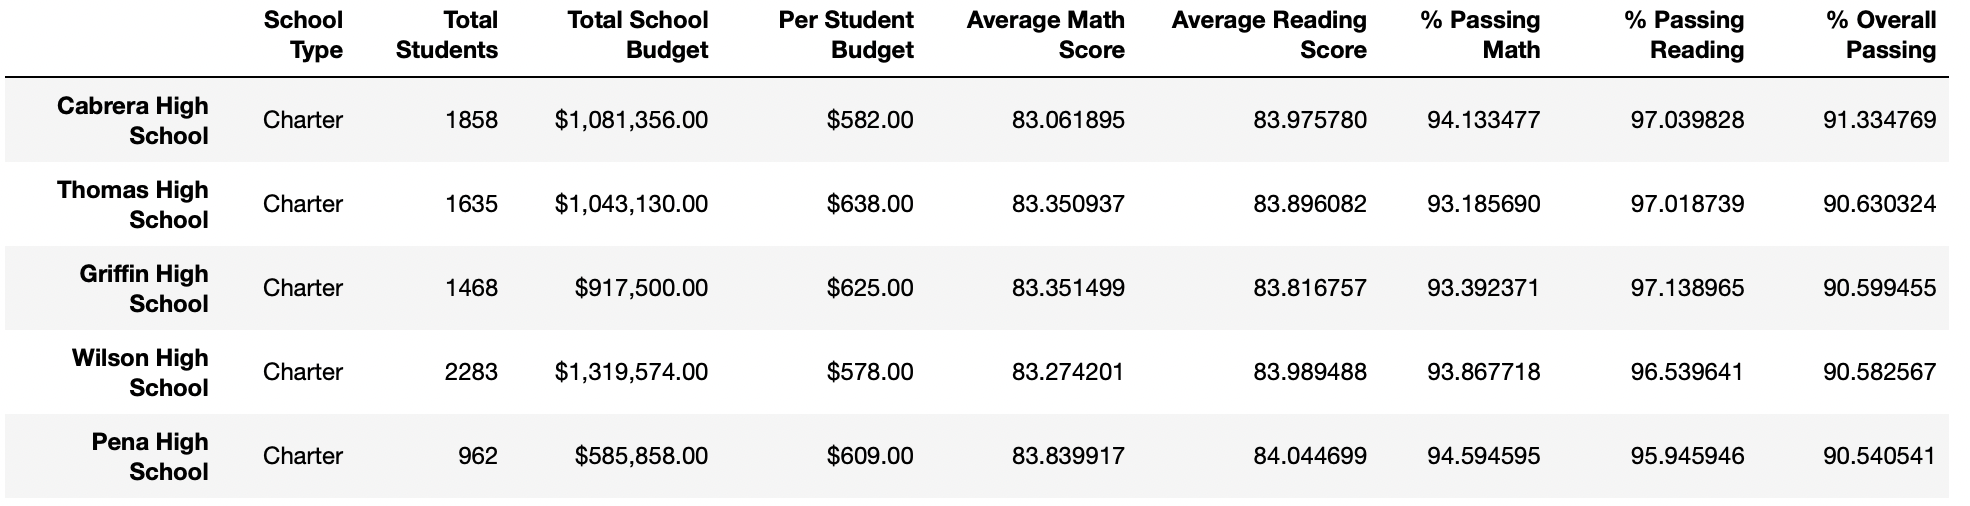
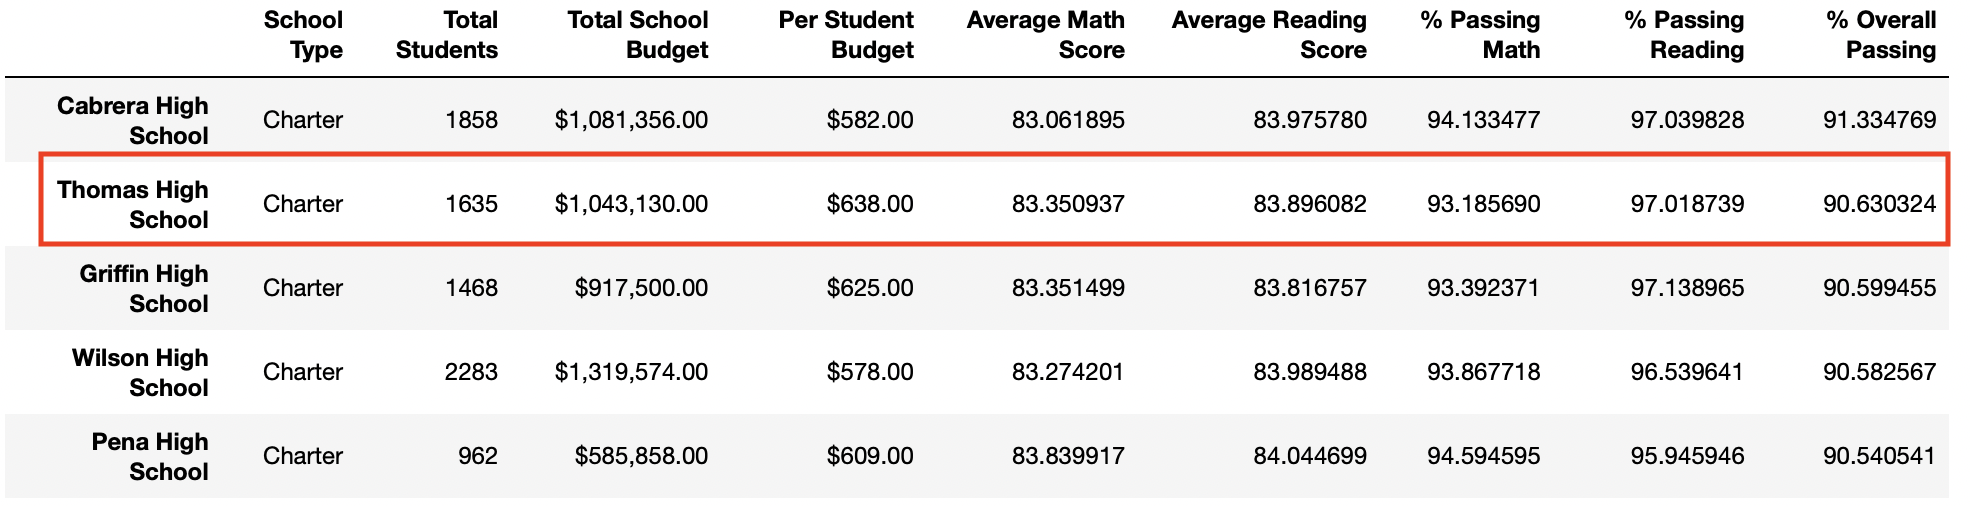
Final version of School District Analysis and Read me

Changed region(s): [[0.0, 0.4743, 0.9909, 0.504], [0.0, 0.2964, 0.9909, 0.3261]]

diff --git a/README.md b/README.md
@@ -2,16 +2,18 @@
 
 ## **Overview:**
 
-In this project, we analyze data from schools across a district, to get an insight into performance trends and patterns, which help the district make stragetic decisions about budget allocations. Data available includes student funding information and standardized test scores of students in the district. Data anomalies or errors such as incorrect scores of students of a particular school, have been fixed and the analysis has been repeated.
+In this project, we analyze data from schools across a district, to get an insight into performance trends and patterns, which will help the district make stragetic decisions about budget allocations. Data available includes student funding information and standardized test scores of students in the district. Data anomalies or errors such as incorrect scores of students of a particular school, have been fixed and the analysis has been repeated.
 
 ## **Results:**
+The latest updated analysis for PyCitySchools can be seen here. [PyCitySchools_Challenge](School_District_Analysis/PyCitySchools_Challenge.ipynb).
+
 Highlighted below are the differences between the original and the updated data analysis after Thomas High School's 9th Grader scores and numbers have been removed from the data.
 
 ### District Summary:
 
-- The Average Math and reading scores remain nearly the same with a decrease of less than 0.1 points in the updated dataframe.
-- The percentage passing Math and reading have fallen by 0.1% while the Overall passing percentage has fallen by 0.2%. While the difference is pretty small in percentage, the number of students in the district who have not passed overall is actually 107 more than the original analysis. 
-- These numbers are larger when we apply the percentages on the actual new Total Count of 38709, after removing the 9th graders from the pool. The numbers indicate a difference of 406 more students that have not passed overall, at the District Level.
+- The Average Math and reading scores remain nearly the same with a decrease of less than 0.1 points in the updated District Summary.
+- The percentage passing Math and reading have fallen by about 0.1% 
+- The Overall passing percentage has fallen by about 0.2%. 
 - The differences in District Summary can be seen in the following screenshots.
 
      #### _Original:_
@@ -25,7 +27,8 @@ Highlighted below are the differences between the original and the updated data 
 
 - In the school summary for Thomas High School, it can be observed that the difference in average scores is very small between the original and new School Summary dataframes.
 - The average math score has fallen by 0.07 points, while the average Reading Score has increased by 0.05 points.
-- The percentage of students passing Math has reduced by 0.087%.  Reading and overall also does not change much between the original  and the updated dataframes, after changing Thomas High School's 9th Grader scores to NaNs and removing the 9th graders from the Student count.
+- The percentage of students passing Math has reduced by 0.087%.  The percentage of students passing Reading has reduced by 0.29%. 
+- The Overall passing percentage has decreased by 0.318%
 - The following screenshots can be referred to.
 
     #### _Original:_
@@ -37,24 +40,55 @@ Highlighted below are the differences between the original and the updated data 
 
 ### School performance vs Other Schools:
 
-- Thomas High School continues to remain in the second position in the Top 5 performing schools, even after the 9th graders' Math and reading scores are replaced.
+- Even with the updated Average scores and percentage passed, and without the 9th graders scores, Thomas High School continues to remain in the second position in the Top 5 performing schools, as can be seen from the screenshots below.
+
+    #### _Original:_
+    ![OriginalTop5Schools](Resources/OriginalTop5Schools.png)
+
+    #### _New:_
+    ![NewTop5Schools](Resources/NewTop5Schools.png)
+
+
 
 ### Scores
 
-- The Scores by grade remain the same for 10th to 12 grade, between the original and new Scores by Grade summary. The 9th graders' scores are unavailable and replaced by NaNs.
-- The scores by spending are not affected by the change in data for 9th graders.
-- The scores by school size are not affected by the change in data for 9th graders.
-- The scores by school type are not affected by the change in data for 9th graders.
+- The Scores by grade remain the same for 10th to 12 grade, between the original and new Scores by Grade summary. The 9th graders' scores are unavailable and so, they are replaced by NaNs. This can be seen in the example screenshots below for the Math Scores by grade.
+
+    #### _Original Math Scores by Grade:_
+    ![OriginalMathbyGrade](Resources/OriginalMathbyGrade.png)
+
+    #### _New Math Scores by Grade:_
+    ![NewMathbyGrade](Resources/NewMathbyGrade.png)
+
+
+- The scores by School Spending  summary is not affected by the change in data for 9th graders, as is evident from the screenshots below.
+
+    #### _Original:_
+    ![OriginalScoresbySpending](Resources/OriginalScoresbySpending.png)
+
+    #### _New:_
+    ![NewScoresbySpending](Resources/NewScoresbySpending.png)
+
+- The scores by school size are not affected by the change in data for 9th graders. The results are the same in both cases.
+
+    #### _Original and New:_
+    ![ScoresbySchoolsize](Resources/ScoresbySchoolsize.png)
+
+- The scores by school type are not affected by the change in data for 9th graders and the analysis yields the same result in both the original and new analysis, as shown below.
+
+    #### _Original and New:_
+    ![ScoresbyType](Resources/ScoresbyType.png)
 
 
 
 ## **Summary:**
 
-In Summary, after replacing the reading and Math scores of 9th graders in Thomas High School to NaNs and removing these students from the total sudent count, the resultant changes are as follows:
+In Summary, after replacing the reading and Math scores of 9th graders in Thomas High School to NaNs, the resultant changes are as follows:
 
-- The most significant difference is that the scores of about 461 students belonging to 9th grade had to be replaced by NaNs. So the average scores and passing percentage calculations have actually been made for 1174 10th to 12th graders for Thomas High School, rather than the full total of 1635 students.
-- At the District level, the number of students who have not passed overall has increased by 107. This can be seen from the percentage passing Math and reading falling by 0.1% while the Overall passing percentage falling by 0.2% in the newly calculated District Summary. This number is even more significant when considering the new total number of students, after removing the 9th graders of Thomas High. 
-- It can been that even though the differences in percentage values between our original and updated analysis are small, the actual numerical difference could tell a different story.
+- The most significant difference is that the scores of about 461 students belonging to 9th grade had to be replaced by NaNs. So the average scores and passing percentage calculations for Thomas High School have actually been made for 1174 10th to 12th graders for Thomas High School, rather than the full total of 1635 students.
+- From the district summary it can be observed that the Overall passing percentage of the district has reduced slightly , when the data of the 9th grade students of Thomas High is excluded.
+- As far as Thomas High's school summary is concerned, the percentage of students passing each individual subject ie. math and reading, as well as the overall pass percentage has reduced when the data of the 9th grade students is excluded. This may indicate that the original( incorrect) scores of the 9th grade students may have contributed towards a higher pass percentage.
+- Because the accurate 9th grade scores for Thomas High School is unavailable, the school cannot participate in the scores by grade analysis for 9th Grade, for both reading and Math. The same analysis can be done only for the 10th, 11th and 12th grade for this school.
 
 
 
